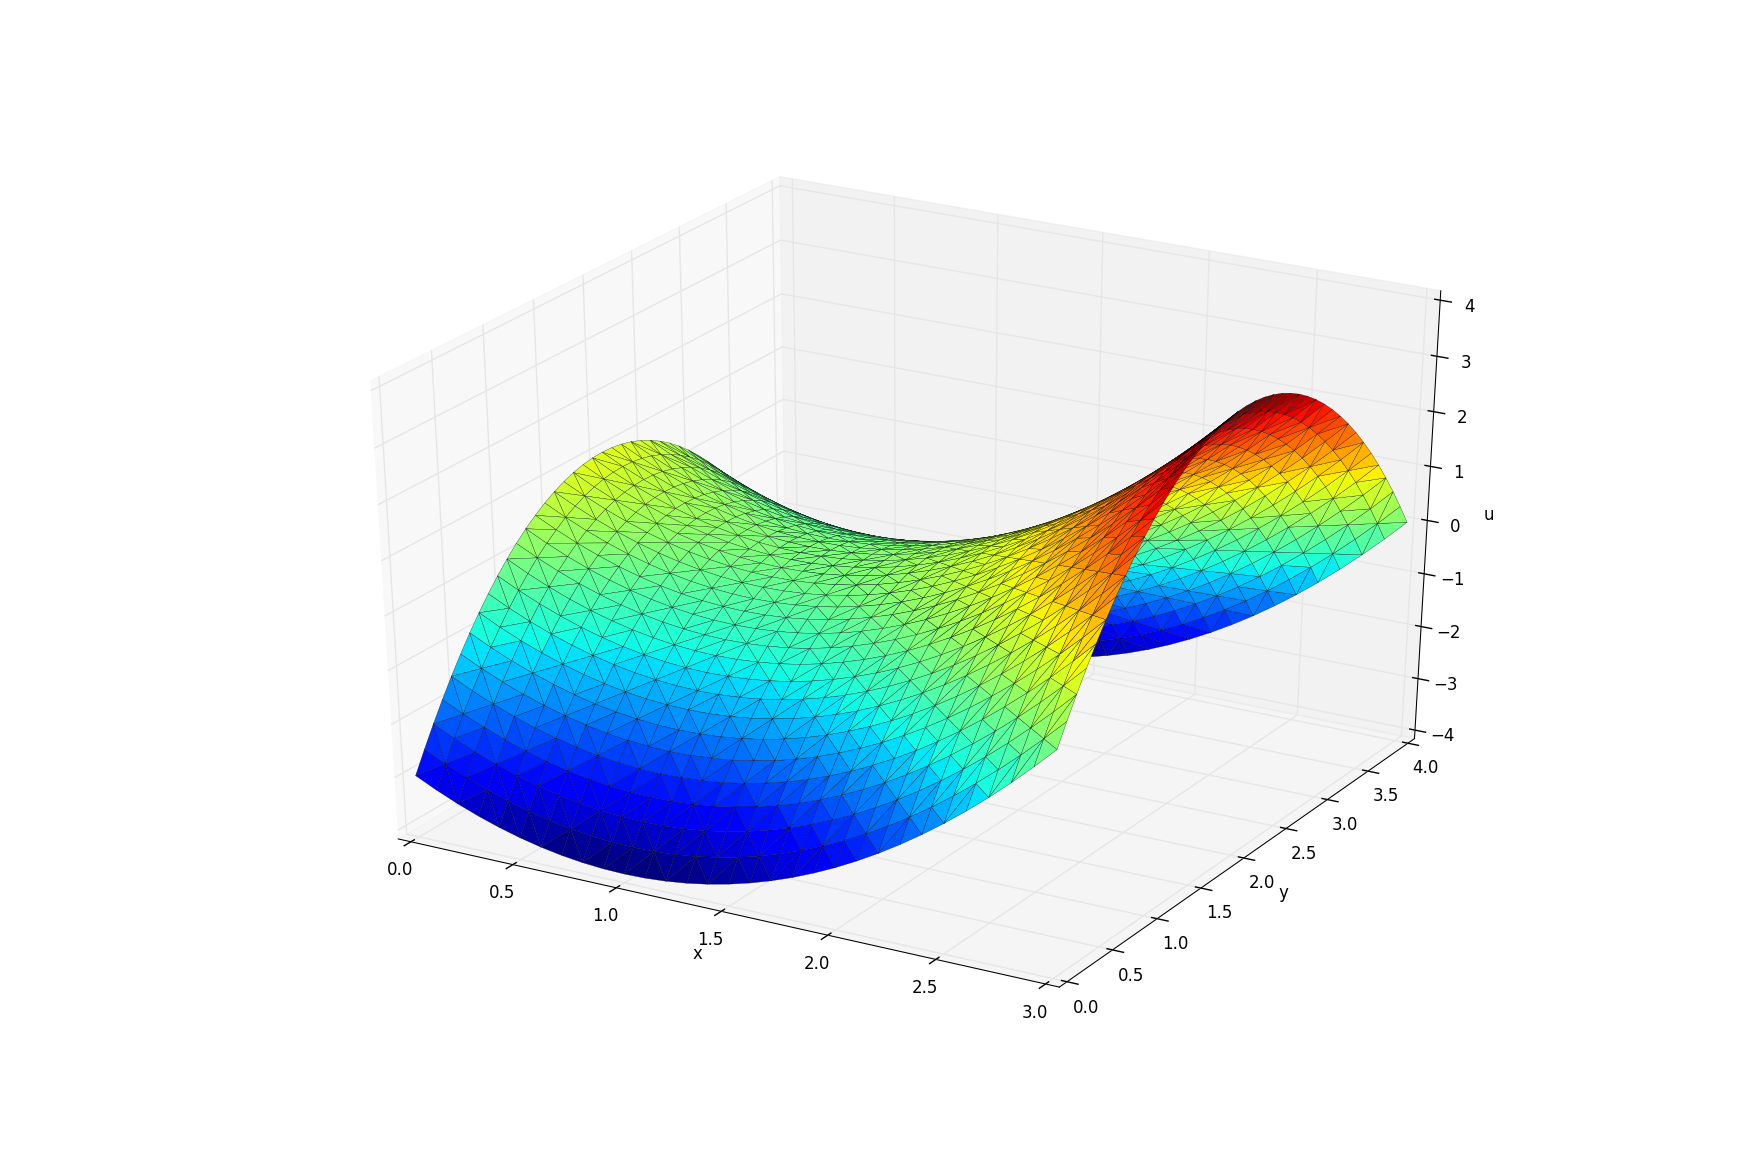
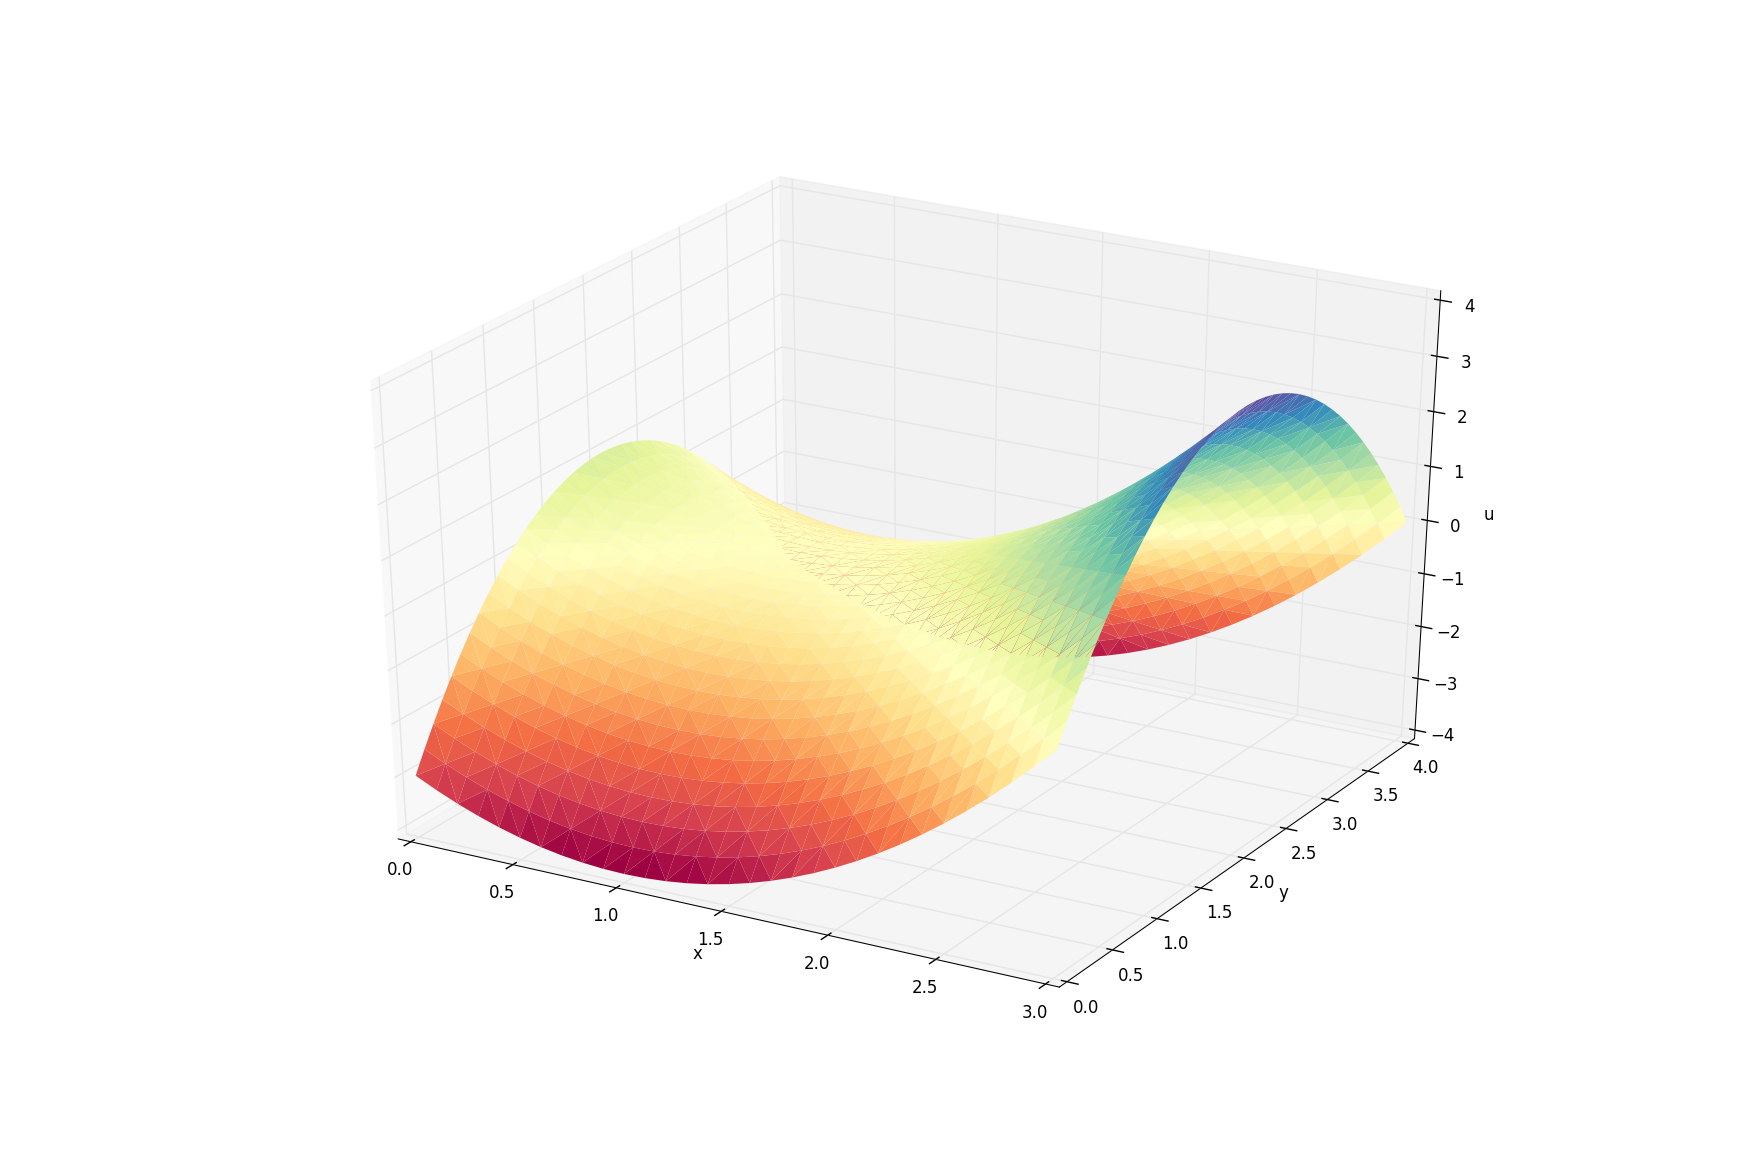
Change img

Changed region(s): [[0.2162, 0.3414, 0.8032, 0.7759]]

diff --git a/examples.py b/examples.py
@@ -9,16 +9,20 @@ from pde import wave
 
 def surface(u, x, y):
     """3d surface plot."""
-    fig = plt.figure()
-    ax  = fig.gca(projection='3d')
-
     y_mesh, x_mesh = np.meshgrid(y, x)
 
+    fig = plt.figure()
+    ax  = fig.gca(projection='3d')
+    ax.plot_trisurf(
+        x_mesh.flatten(),
+        y_mesh.flatten(),
+        u.flatten(),
+        cmap=cm.Spectral,
+        edgecolor='none'
+    )
     ax.set_xlabel('x')
     ax.set_ylabel('y')
     ax.set_zlabel('u')
-    ax.plot_trisurf(x_mesh.flatten(), y_mesh.flatten(), u.flatten(),
-                    cmap=cm.jet, linewidth=0.2)
 
     plt.show()
 
